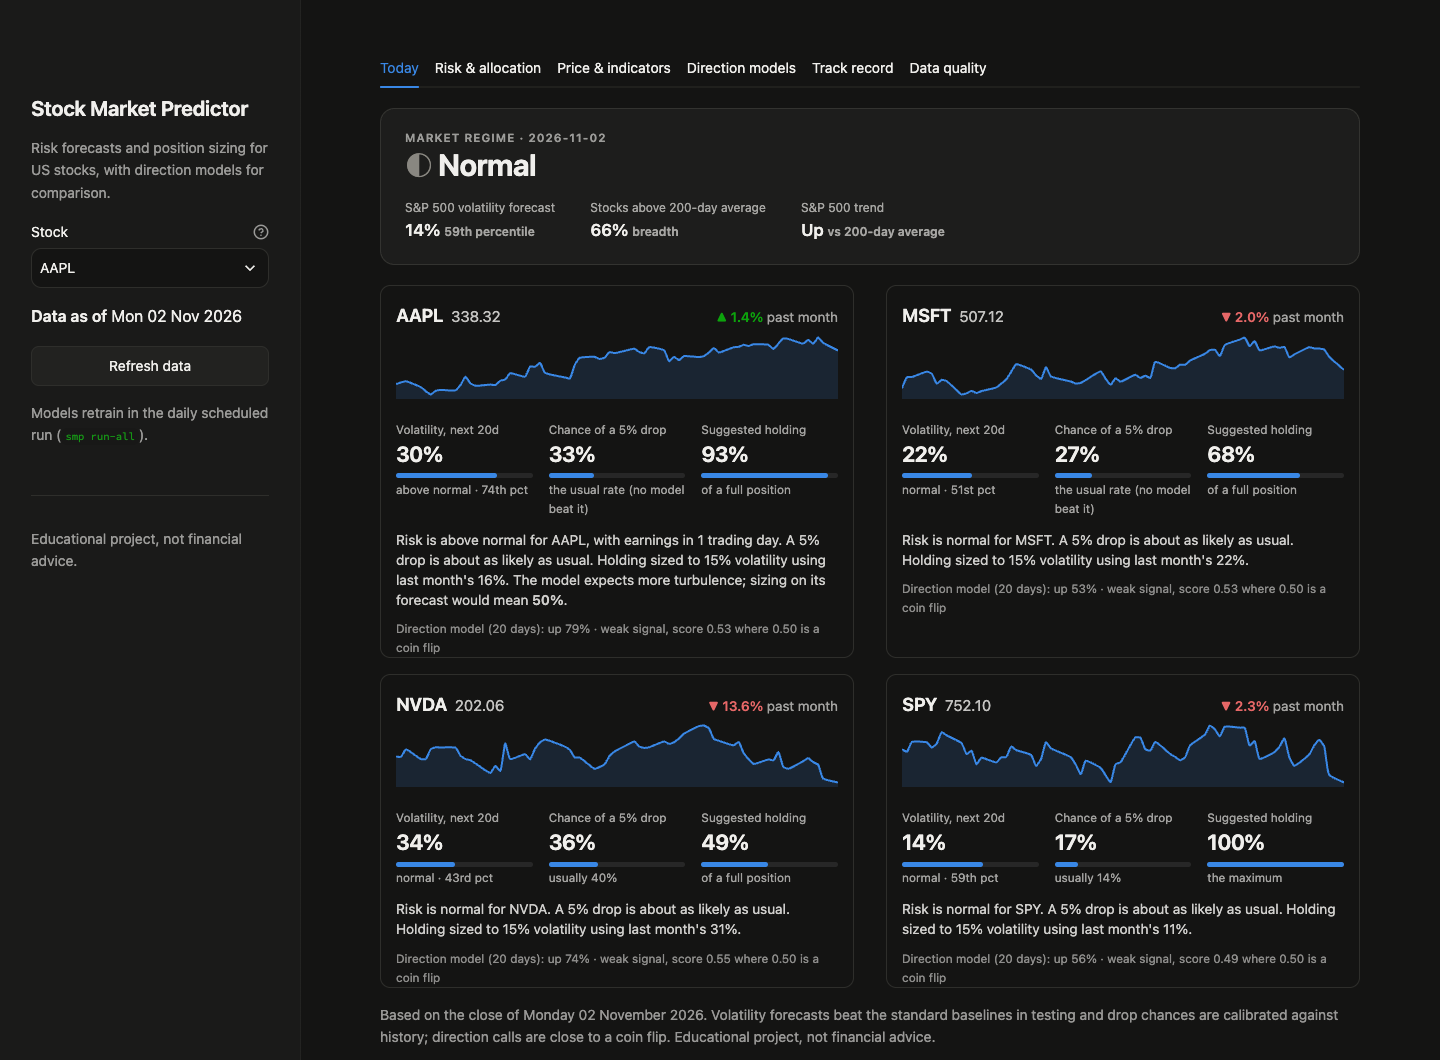
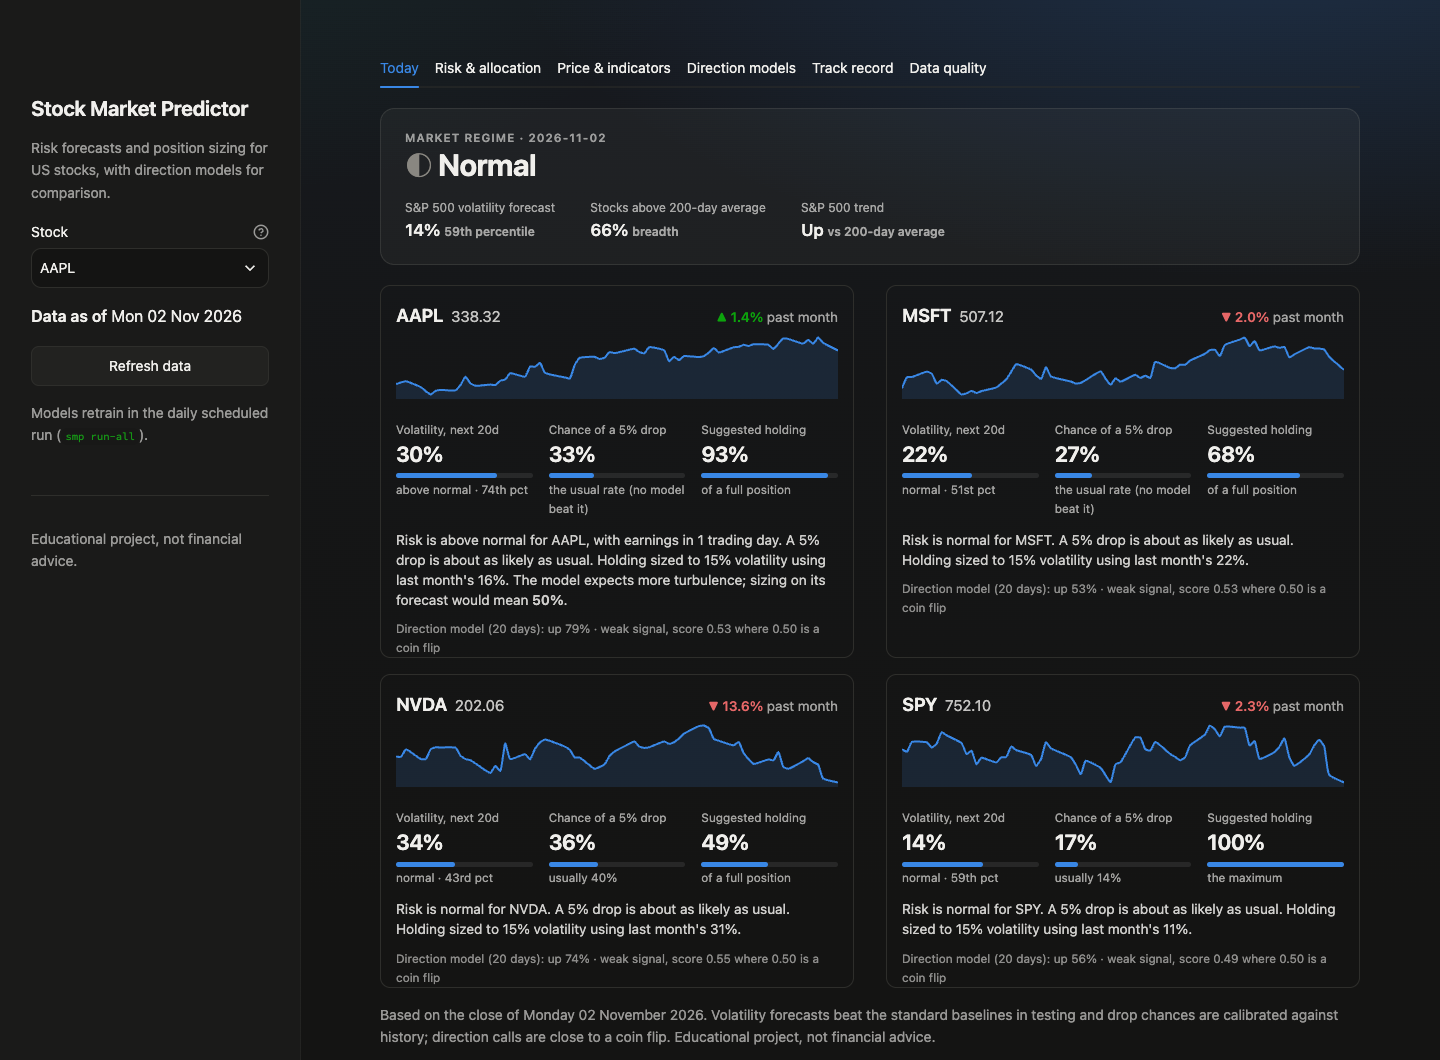
Add a soft gradient page background in light and dark
A faint blue glow at the top fading into the normal surface, fixed in place so charts further
down sit on the plain background. README Today screenshots refreshed.

Changed region(s): [[0.5312, 0.0, 1.0, 0.1557]]

diff --git a/app/dashboard.py b/app/dashboard.py
@@ -116,6 +116,12 @@ PALETTES = {
         band="rgba(42,120,214,0.10)",
         band_key="rgba(42,120,214,0.35)",  # the band's wash, strong enough to read as a legend key
         band2="rgba(235,104,52,0.10)",
+        # page background: a soft blue glow at the top fading into the normal surface (kept faint behind charts)
+        page_bg=(
+            "radial-gradient(1100px 520px at 88% -8%, rgba(42,120,214,0.13), transparent 70%), "
+            "radial-gradient(900px 480px at 8% -12%, rgba(27,175,122,0.07), transparent 70%), "
+            "linear-gradient(180deg, #f2f6fc 0%, #f8f9fa 380px, #fcfcfb 900px)"
+        ),
         calm_wash="rgba(12,163,12,0.10)",
         stressed_wash="rgba(208,59,59,0.16)",
         seq=["#cde2fb", "#86b6ef", "#2a78d6", "#184f95"],
@@ -136,6 +142,11 @@ PALETTES = {
         band="rgba(57,135,229,0.15)",
         band_key="rgba(57,135,229,0.45)",
         band2="rgba(217,89,38,0.16)",
+        page_bg=(
+            "radial-gradient(1100px 520px at 88% -8%, rgba(57,135,229,0.20), transparent 70%), "
+            "radial-gradient(900px 480px at 8% -12%, rgba(25,158,112,0.10), transparent 70%), "
+            "linear-gradient(180deg, #171a20 0%, #151617 380px, #141413 900px)"
+        ),
         calm_wash="rgba(12,163,12,0.16)",
         stressed_wash="rgba(208,59,59,0.24)",
         seq=["#104281", "#256abf", "#5598e7", "#b7d3f6"],
@@ -156,6 +167,7 @@ st.markdown(
       [data-testid="stSidebar"] h1 {{ font-size: 1.3rem; letter-spacing: -0.01em; }}
       .block-container {{ padding-top: 2rem; padding-bottom: 3rem; max-width: 1280px; }}
       [data-testid="stHeader"] {{ background: transparent; }}
+      [data-testid="stApp"] {{ background: {C["page_bg"]}; background-attachment: fixed; }}
       h1, h2, h3 {{ letter-spacing: -0.015em; }}
       .stTabs [data-baseweb="tab-list"] {{ gap: 1.6rem; }}
       .stTabs [data-baseweb="tab"] {{ font-size: 0.95rem; padding-left: 0; padding-right: 0; }}
